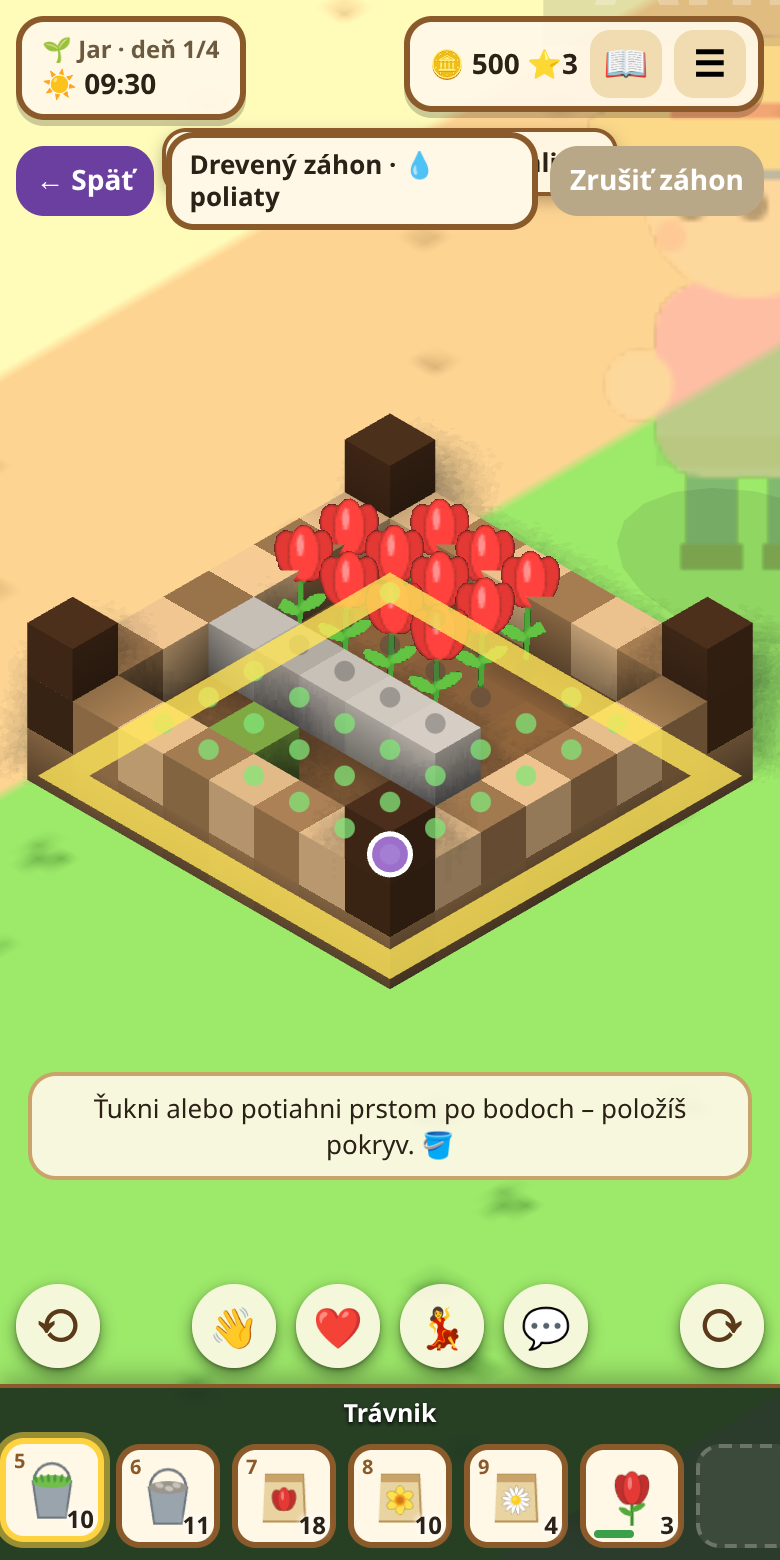
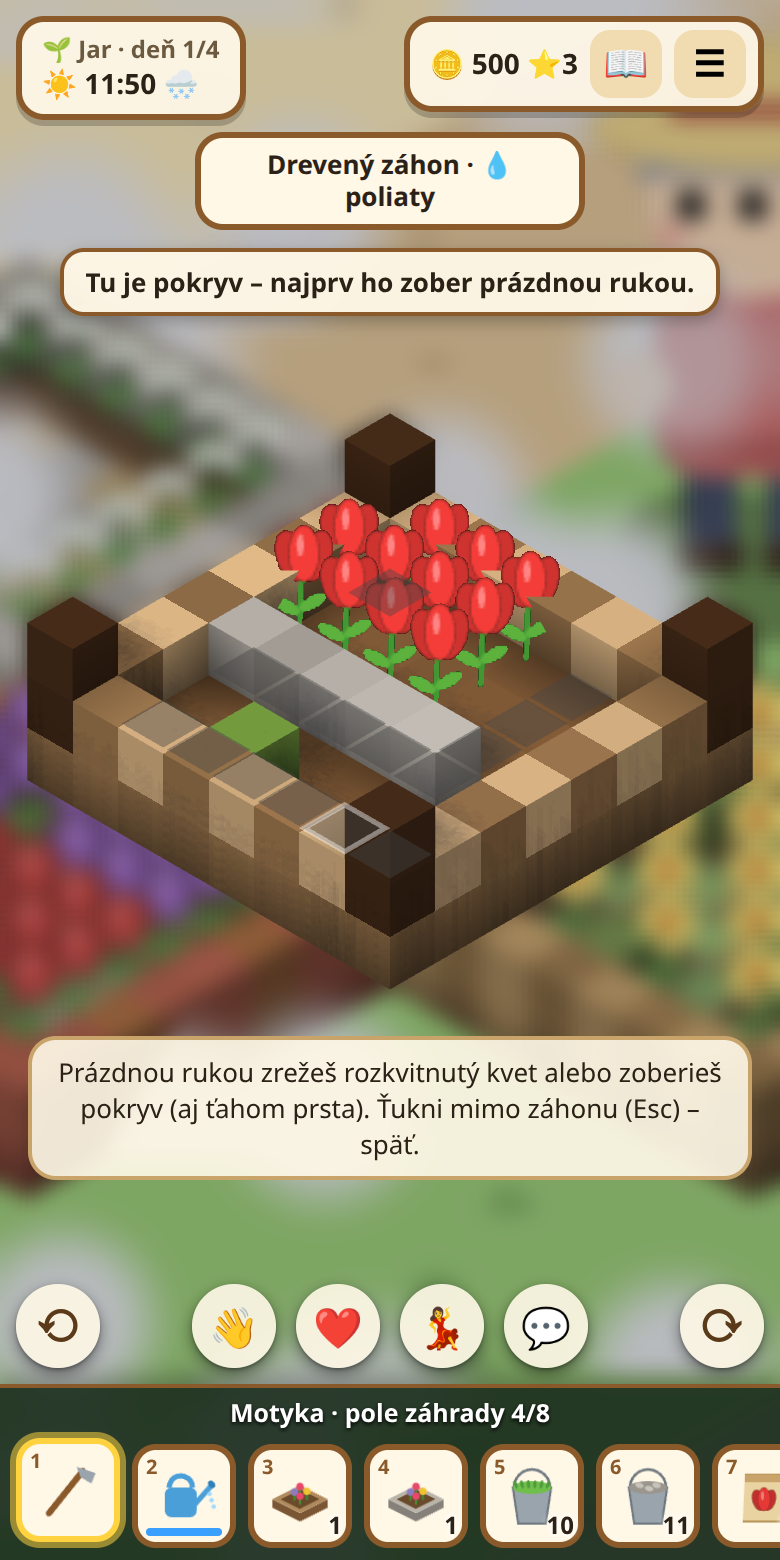
Záhon: body bez zelených bodiek – kam to nejde, je sivé, ťuknutý bod má rámik ako ťuknutie na zem (#179)

diff --git a/src/client/zahon.ts b/src/client/zahon.ts
@@ -42,7 +42,7 @@ function el<K extends keyof HTMLElementTagNameMap>(tag: K, cls: string | null, .
 
 export function createZahon(dp: ZahonDeps): ClientZahon {
   const { S } = dp;
-  let paint: { add: boolean; spots: Spot[] } | null = null, cursor: Spot = [3, 3], hit: Spot | null = null;
+  let paint: { add: boolean; spots: Spot[] } | null = null, cursor: Spot = [3, 3], tapAt = { sx: 0, sy: 0, t: 0, act: false };
   const bar = el('div', 'zbar hidden'), title = el('div', 'ztitle'), hint = el('div', 'zhint hidden');
   bar.append(title);
   dp.root.append(bar, hint);
@@ -66,12 +66,12 @@ export function createZahon(dp: ZahonDeps): ClientZahon {
     const z = Obj.zahonAt({ list: S.objects }, tx, ty);
     if (!z) return;
     S.zoom = { id: z.id };
-    cursor = [3, 3]; hit = null; paint = null;
+    cursor = [3, 3]; paint = null;
     bar.classList.remove('hidden'); hint.classList.remove('hidden'); dp.root.classList.add('zooming');
     refresh();
   }
   function close(): void {
-    S.zoom = null; paint = null; hit = null;
+    S.zoom = null; paint = null;
     bar.classList.add('hidden'); hint.classList.add('hidden'); dp.root.classList.remove('zooming');
   }
   // Text lišty a nápoveda podľa toho, čo je v ruke
@@ -94,6 +94,7 @@ export function createZahon(dp: ZahonDeps): ClientZahon {
   // Akcia na jednom bode (ťuknutie, kláves E)
   function act(z: ZahonView, [sx, sy]: Spot): void {
     const sel = S.sel, here = ZR.spotAt(z, sx, sy);
+    tapAt = { sx, sy, t: performance.now(), act: useful(z, [sx, sy]) };
     if (sel === 'can') { dp.send({ t: 'zahon', op: 'water', id: z.id }); dp.sfx('water'); return; }
     if (sel === 'compost') { dp.send({ t: 'zahon', op: 'compost', id: z.id }); dp.sfx('pop'); return; }
     if (sel.startsWith('seed_') || D.isWild(sel)) {
@@ -121,7 +122,6 @@ export function createZahon(dp: ZahonDeps): ClientZahon {
     const z = cur();
     if (!z) return;
     const s = dp.pickSpot(cx, cy, z.x, z.y);
-    hit = s ? [s.sx, s.sy] : null;
     paint = null;
     if (!s || !ZR.inner(s.sx, s.sy)) return;
     if (S.sel.startsWith('cov_')) paint = { add: true, spots: [[s.sx, s.sy]] };
@@ -131,7 +131,6 @@ export function createZahon(dp: ZahonDeps): ClientZahon {
     const z = cur();
     if (!z) return;
     const s = dp.pickSpot(cx, cy, z.x, z.y);
-    hit = s ? [s.sx, s.sy] : null;
     if (paint && s && ZR.inner(s.sx, s.sy) && !paint.spots.some(([a, b]) => a === s.sx && b === s.sy)) paint.spots.push([s.sx, s.sy]);
   }
   function up(cx: number, cy: number, tap: boolean): void {
@@ -157,32 +156,38 @@ export function createZahon(dp: ZahonDeps): ClientZahon {
     if (!z) return false;
     const mv: Readonly<Partial<Record<string, Spot>>> = { ArrowUp: [0, -1], KeyW: [0, -1], ArrowDown: [0, 1], KeyS: [0, 1], ArrowLeft: [-1, 0], KeyA: [-1, 0], ArrowRight: [1, 0], KeyD: [1, 0] };
     const d = mv[code];
-    if (d) { cursor = [Math.max(1, Math.min(6, cursor[0] + d[0])), Math.max(1, Math.min(6, cursor[1] + d[1]))]; hit = cursor; return true; }
+    if (d) { cursor = [Math.max(1, Math.min(6, cursor[0] + d[0])), Math.max(1, Math.min(6, cursor[1] + d[1]))]; return true; }
     if (code === 'KeyE' || code === 'Enter') { act(z, cursor); return true; }
     if (code === 'Escape') { close(); return true; }
     return false;
   }
-  // Značky bodov pre render3d: zelené = to, čo je v ruke, sa sem dá; sivé = nedá; vybraný bod svieti
+  // Značky bodov pre render3d: sivé = to, čo je v ruke, sem nejde (voľné body sa neznačia); rámik = ťuknutý bod
+  // (zanikne ako pri ťuknutí na zem), bod pod kurzorom klávesnice, body ťahu prstom
   function marks(): readonly ZoomMark[] {
     const z = cur();
     if (!z) return [];
     const sel = S.sel, out: ZoomMark[] = [];
-    const ok = (sx: number, sy: number): boolean | null => {
+    const can = (sx: number, sy: number): boolean | null => {
       const here = ZR.spotAt(z, sx, sy);
-      if (here?.p && sel !== 'hoe' && sel !== '') return null; // obsadený bod kvetom netreba značiť – kvet tam vidno
-      if (sel.startsWith('seed_') || D.isWild(sel)) return !ZR.plantError(z, sx, sy, sel.startsWith('seed_') ? D.speciesOfItem(sel) : null);
-      if (sel.startsWith('cov_')) return !ZR.coverError(z, sx, sy);
-      if (sel === 'hoe') return here?.p ? true : null;
-      if (!sel) return ZR.blooming(here) || here?.c ? true : null;
+      if (sel.startsWith('seed_') || D.isWild(sel)) return here?.p ? null : !ZR.plantError(z, sx, sy, sel.startsWith('seed_') ? D.speciesOfItem(sel) : null);
+      if (sel.startsWith('cov_')) return here?.p ? null : !ZR.coverError(z, sx, sy);
       return null;
     };
-    for (let sy = 1; sy <= 6; sy++) for (let sx = 1; sx <= 6; sx++) {
-      const k = ok(sx, sy);
-      if (k !== null) out.push({ sx, sy, k: k ? 'ok' : 'no' });
-    }
-    const hs = paint ? paint.spots : hit ? [hit] : [];
-    for (const [sx, sy] of hs) out.push({ sx, sy, k: 'hit' });
+    for (let sy = 1; sy <= 6; sy++) for (let sx = 1; sx <= 6; sx++) if (can(sx, sy) === false) out.push({ sx, sy, k: 'no' });
+    if (paint) for (const [sx, sy] of paint.spots) out.push({ sx, sy, k: 'ring', act: true });
+    else if (S.kbd) out.push({ sx: cursor[0], sy: cursor[1], k: 'ring', act: useful(z, cursor) });
+    const age = (performance.now() - tapAt.t) / 600;
+    if (age < 1) out.push({ sx: tapAt.sx, sy: tapAt.sy, k: 'ring', act: tapAt.act, age });
     return out;
+  }
+  // Urobí ťuknutie na bod niečo? (žltý či biely rámik)
+  function useful(z: ZahonView, [sx, sy]: Spot): boolean {
+    const sel = S.sel, here = ZR.spotAt(z, sx, sy);
+    if (sel === 'can' || sel === 'compost') return true;
+    if (sel.startsWith('seed_') || D.isWild(sel)) return !ZR.plantError(z, sx, sy, sel.startsWith('seed_') ? D.speciesOfItem(sel) : null);
+    if (sel.startsWith('cov_')) return !ZR.coverError(z, sx, sy);
+    if (sel === 'hoe') return !!here?.p || !ZR.inner(sx, sy);
+    return ZR.blooming(here) || !!here?.c;
   }
   return { open, close, active: () => !!cur(), down, move, up, key, marks, refresh };
 }

diff --git a/src/client/render3d.ts b/src/client/render3d.ts
@@ -400,7 +400,7 @@ export interface Render3DApi {
   beforeRender?: () => void;
   zoomMarks?: () => readonly ZoomMark[]; // priblížený záhon (#179): značky bodov
 }
-export interface ZoomMark { sx: number; sy: number; k: 'ok' | 'no' | 'hit' }
+export interface ZoomMark { sx: number; sy: number; k: 'no' | 'ring'; act?: boolean; age?: number } // age 0–1: zánik rámika ťuknutia
 // Zoslabovanie objektov pred hráčom (pozri FADE_DEFAULTS); v konzole window.MF_FADE prepíše len uvedené hodnoty
 export interface FadeBase {
   darkFrom: number; dir: 'facing' | 'camera'; min: number; edge: number; near: number; reach: number; width: number; spread: number;
@@ -2036,17 +2036,6 @@ void main() {
   function drawOverlay(t: number): void {
     const c = ov, cw = api.ov.width, ch = api.ov.height, ppb = pxPerBlock();
     c.clearRect(0, 0, cw, ch);
-    // priblížený záhon (#179): body, na ktoré sa dá (zelené) či nedá (sivé) to, čo je v ruke; vybraný bod svieti
-    const zt = zoomTarget(), marks = zt && zoomEase > 0.6 && api.zoomMarks ? api.zoomMarks() : [];
-    if (zt && marks.length) {
-      const tx = zt.x - 0.5, ty = zt.y - 0.5, h = groundY(zt.x, zt.y) + 1 / ZH.SPOTS + 0.01;
-      for (const m of marks) {
-        const p = project(tx + (m.sx + 0.5) / ZH.SPOTS, h, ty + (m.sy + 0.5) / ZH.SPOTS), r = ppb / ZH.SPOTS * (m.k === 'hit' ? 0.32 : 0.16);
-        c.fillStyle = m.k === 'ok' ? 'rgba(130,230,120,0.75)' : m.k === 'hit' ? 'rgba(169,120,224,0.9)' : 'rgba(60,60,60,0.35)';
-        c.beginPath(); c.arc(p.x, p.y, r, 0, Math.PI * 2); c.fill();
-        if (m.k === 'hit') { c.strokeStyle = '#fff'; c.lineWidth = Math.max(1.5, r * 0.25); c.stroke(); }
-      }
-    }
     // značka ťuknutia a cieľové políčko (klávesnica)
     const ring = (x: number, y: number, color: string, r: number): void => {
       const h = groundY(x, y);
@@ -2054,7 +2043,22 @@ void main() {
       c.strokeStyle = color; c.lineWidth = Math.max(2, ppb * 0.05);
       c.beginPath(); pts.forEach((p, i) => { if (i) c.lineTo(p.x, p.y); else c.moveTo(p.x, p.y); }); c.closePath(); c.stroke();
     };
-    if (S.tapMark) {
+    // priblížený záhon (#179): body, kam to, čo je v ruke, nejde, sú sivé; ťuknutý bod (a bod pod kurzorom klávesnice,
+    // body ťahu prstom) má ten istý rámik ako ťuknutie na zem – žltý, keď sa tam niečo stane, inak biely
+    const zt = zoomTarget(), marks = zt && zoomEase > 0.6 && api.zoomMarks ? api.zoomMarks() : [];
+    if (zt) {
+      const tx = zt.x - 0.5, ty = zt.y - 0.5, h = groundY(zt.x, zt.y) + 1 / ZH.SPOTS + 0.01;
+      const corners = (sx: number, sy: number, r: number): Pt[] => ([[0, 0], [1, 0], [1, 1], [0, 1]] as const).map(([a, b]) => project(tx + (sx + 0.5 + (a - 0.5) * r) / ZH.SPOTS, h, ty + (sy + 0.5 + (b - 0.5) * r) / ZH.SPOTS));
+      const path = (pts: Pt[]): void => { c.beginPath(); pts.forEach((p, i) => { if (i) c.lineTo(p.x, p.y); else c.moveTo(p.x, p.y); }); c.closePath(); };
+      for (const m of marks) {
+        if (m.k === 'no') { path(corners(m.sx, m.sy, 0.92)); c.fillStyle = 'rgba(70,70,70,0.42)'; c.fill(); continue; }
+        const age = m.age ?? 0;
+        path(corners(m.sx, m.sy, 0.7 + age * 0.4));
+        c.strokeStyle = m.act ? `rgba(255,230,90,${1 - age})` : `rgba(255,255,255,${0.8 - age * 0.8})`;
+        c.lineWidth = Math.max(2, ppb / ZH.SPOTS * 0.08); c.stroke();
+      }
+    }
+    if (S.tapMark && !S.zoom) {
       const age = (performance.now() - S.tapMark.t) / 600;
       // v temnej ploche sa nič nezvýrazňuje (ani to, na čo sa dá ťuknúť)
       if (age < 1) ring(S.tapMark.x, S.tapMark.y, S.tapMark.act && !D.isDark(S.area) ? `rgba(255,230,90,${1 - age})` : `rgba(255,255,255,${0.8 - age * 0.8})`, 0.5 + age * 0.4);

diff --git a/README.md b/README.md
@@ -205,7 +205,7 @@ A **záhon** (flower bed) is a shared object on one grass tile with an **8 × 8 
 
 - **Buying:** at the stall in Market → Upgrade, four kinds of frame (*drevený, prútený, kamenný, tehlový*). All of them cost **40 coins** at **reputation 1** and work the same; only the frame looks different. Covers are sold by the bucket (**1 vedro = 16 spots**): *trávnik* 8, *štrk* 6, *okruhliaky* 10, *plochý kameň* 14 coins.
 - **Placing:** pick the záhon in the hotbar and tap a tile of plain grass (not a tilled tile: „Najprv zarovnaj motykou.“, no other object). It takes **1 slot of the shared field permit**, however many flowers it holds. It can't be moved; **the hoe on its frame** (in the zoomed view, with a confirmation) removes it: blooming flowers go to the inventory as cut flowers, the others are lost, covers come back, the slot is freed.
-- **Zoomed view (the only way to edit it):** tapping a záhon moves the camera over it; the záhon floats sharp in front of the blurred, dimmed garden. Tapping a spot does what the item in hand does: seeds (also wild seeds) plant, a cover is laid (a swipe lays it on several spots), an empty hand cuts a blooming flower or takes a cover back (also by swiping), the hoe digs a flower out, **one pour of the watering can waters the whole záhon** and compost fertilises the whole záhon until the end of the season. Spots where the item can go are green, the others grey. There are no buttons: **a tap outside the záhon (Esc on a computer) goes back**; walking away closes it too. Keyboard: arrows move the spot, E acts.
+- **Zoomed view (the only way to edit it):** tapping a záhon moves the camera over it; the záhon floats sharp in front of the blurred, dimmed garden. Tapping a spot does what the item in hand does: seeds (also wild seeds) plant, a cover is laid (a swipe lays it on several spots), an empty hand cuts a blooming flower or takes a cover back (also by swiping), the hoe digs a flower out, **one pour of the watering can waters the whole záhon** and compost fertilises the whole záhon until the end of the season. Spots where the item in hand can't go are greyed out (free spots aren't marked); the tapped spot gets the same outline as a tap on the ground (yellow when something happens, white otherwise). There are no buttons: **a tap outside the záhon (Esc on a computer) goes back**; walking away closes it too. Keyboard: arrows move the spot, E acts.
 - **Spots and exclusion zones:** the outer ring of spots is the frame; flowers and covers go on the inner 6 × 6. Every flower has a square **exclusion zone** of *d* × *d* spots (*d* from the real planting distance, a spot ≈ 12.5 cm: snowdrop, crocus, tulip, daffodil, lily of the valley, autumn crocus 1; chamomile, poppy, cornflower, edelweiss 2; hellebore, lavender, chrysanthemum 3; sunflower, aster, fern flower, rainbow rose 4; dog rose 6) and **no two zones may overlap, whatever the species**: distance ≥ (*d*₁ + *d*₂) / 2. A zone may reach over the frame, so a dog rose in a corner leaves room for 20 tulips. Water flowers don't go into a záhon. Covers have no zone.
 - **Growth:** every flower grows like on a tilled tile of ordinary soil (season, frost, drought, quality, perennials, wild seeds revealed at dawn and added to the herbarium of the player who placed the záhon); rain waters every záhon.
 - **Look:** the frame, soil and covers are voxels in the 3D world (debug → Assets, *Objects*); the flowers are the same 2D sprites as on a tile, standing on their spots and sized by their zone.
